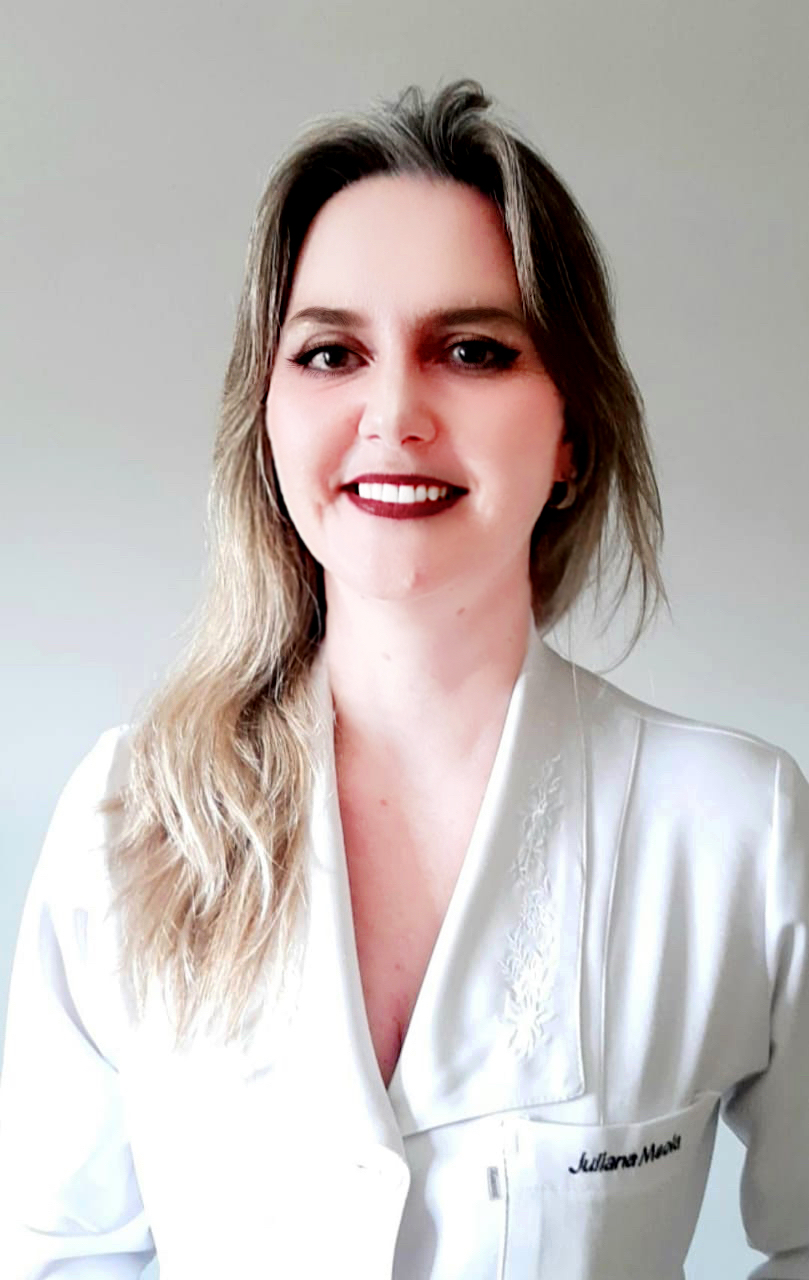
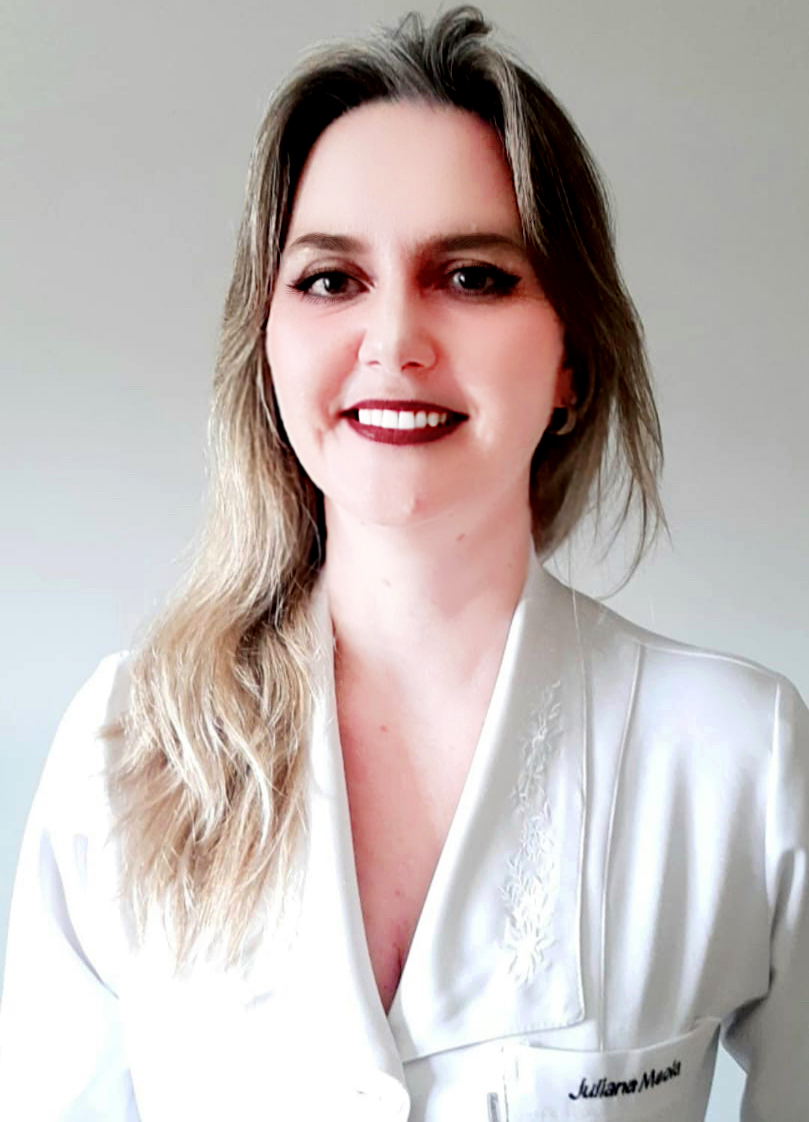
Feature About Page, team page text

diff --git a/_includes/feature.html b/_includes/feature.html
@@ -1,30 +1,20 @@
+{% for feature in site.data.features %}
+
+{% if feature.show == true -%}
+
 <div class="col-sm-6">
     <div class="card card-feature text-center mt-4">
       <div class="card-header">
         Featured
       </div>
       <div class="card-body">
-        <h4 class="card-title font-weight-bold">Mammographic Screening In Brazil</h5>
-        <p class="card-text text-justify mt-4 mb-4" style="font-size: 1.2rem;">Data and interactive graphs on mammographic screening in the national territory referring to the 
-          study <a href="https://www.ncbi.nlm.nih.gov/pmc/articles/PMC9564571/#:~:text=The%2010%2Dyear%20mammogram%20coverage,those%20aged%2040%2D50%20years.">"10-year opportunistic mammographic screening scenario in Brazil and its impact on breast cancer early detection: 
-          a nationwide population-based study"</a></p>
-        <a href="https://breastscreening.com.br/" class="btn btn-outline-info">View data</a>
+        <h4 class="card-title font-weight-bold"> {{feature.title}} </h5>
+        <p class="card-text text-justify mt-4 mb-4" style="font-size: 1.2rem;"> {{feature.description}} </p>
+        <a href="{{feature.button-url}}" class="btn btn-outline-info"> {{feature.button-text}} </a>
       </div>
     </div>
     </div>
 
-    <div class="col-sm-6">
-    <div class="card card-feature text-center mt-4">
-      <div class="card-header">
-        Featured
-      </div>
-      <div class="card-body">
-        <h4 class="card-title font-weight-bold">National Breast Cancer Survey</h4>
-        <p class="card-text text-justify" style="font-size: 1.0rem;">The Center for Advanced Research in Medicine (CEPAM) - UNILAGO, in conjunction with the Ribeirão Preto 
-          Medical School - USP and the Faculty of Pharmaceutical Sciences - UNESP, is developing a national survey to collect data from women at 
-          least 18 years old in order to understand how is the distribution of breast cancer cases in the Brazilian population. Supported by the 
-          São Paulo Regional Office of the Brazilian Society of Mastology</p>
-        <a href="http://200.144.244.198:6789/" class="btn btn-outline-info">I would like to participate</a>
-      </div>
-    </div>
-    </div>
+{%- endif %}
+  
+  {% endfor %}

diff --git a/_pages/team.md b/_pages/team.md
@@ -18,7 +18,7 @@ Go to [Reseachers](#Reseachers), [Colaborators](#colaborators), [Undergraduate S
   {% for member in site.data.team.team_members %}
  <div class="col-sm-6 clearfix">
   {% if member.photo %}
-      <img src="{{ site.url }}{{ site.baseurl }}/assets/img/teampic/{{ member.photo }}" class="img-responsive" width="20%" style="float: left" />
+      <img src="{{ site.url }}{{ site.baseurl }}/assets/img/teampic/{{ member.photo }}" class="img-responsive" width="25%" style="float: left" />
    {%- else -%}
       <img src="{{ site.url }}{{ site.baseurl }}/assets/img/teampic/member.png" class="img-responsive" width="25%" style="float: left" />
    {% endif %}
